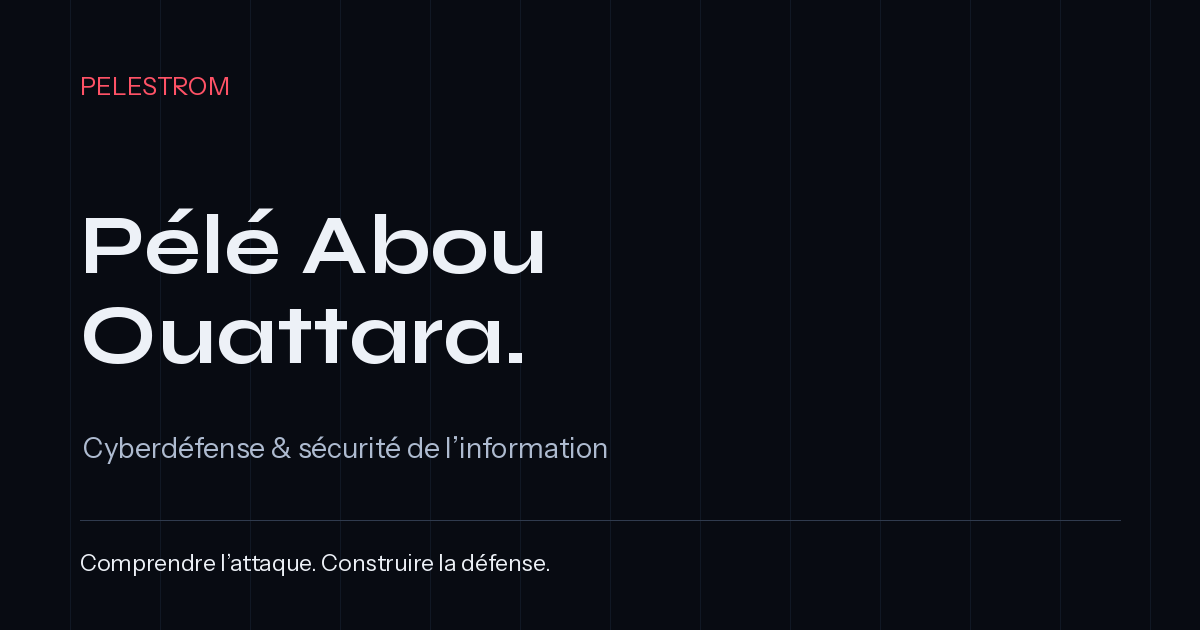
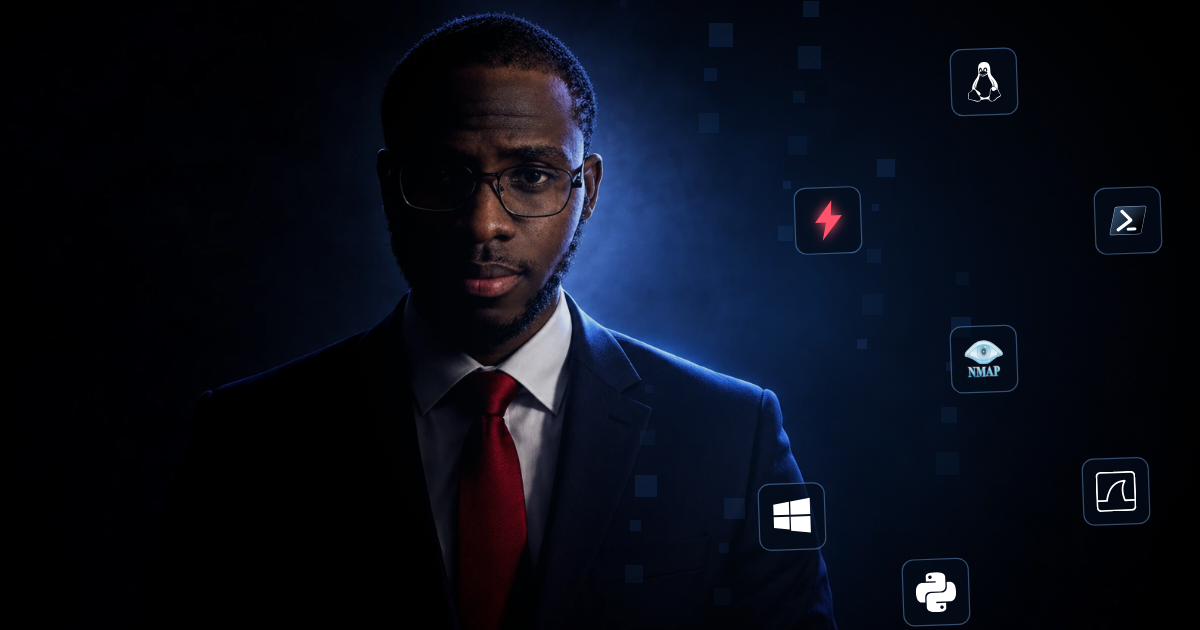
Update open graph

diff --git a/vite.config.ts b/vite.config.ts
@@ -6,6 +6,6 @@ const siteUrl=config.siteUrl as string|null;
 const canonical=siteUrl?new URL(siteUrl.endsWith('/')?siteUrl:siteUrl+'/').href:null;
 export default defineConfig({plugins:[react(),{
  name:'portfolio-seo',
- transformIndexHtml(html){html=html.replace(/<meta property="og:image"[^>]*>/,'');const tags=[{tag:'meta',attrs:{name:'twitter:card',content:'summary_large_image'}},{tag:'meta',attrs:{property:'og:locale',content:'fr_FR'}}];if(canonical)tags.push({tag:'meta',attrs:{property:'og:url',content:canonical}},{tag:'meta',attrs:{property:'og:image',content:new URL('social-card.png',canonical).href}});return {html,tags:[...tags,...(canonical?[{tag:'link',attrs:{rel:'canonical',href:canonical}}]:[])]};},
+ transformIndexHtml(html){html=html.replace(/<meta property="og:image"[^>]*>/,'');const tags=[{tag:'meta',attrs:{name:'twitter:card',content:'summary_large_image'}},{tag:'meta',attrs:{property:'og:locale',content:'fr_FR'}}];if(canonical)tags.push({tag:'meta',attrs:{property:'og:url',content:canonical}},{tag:'meta',attrs:{property:'og:image',content:new URL('social-card.png',canonical).href}},{tag:'meta',attrs:{property:'og:image:width',content:'1200'}},{tag:'meta',attrs:{property:'og:image:height',content:'630'}},{tag:'meta',attrs:{property:'og:image:type',content:'image/png'}},{tag:'meta',attrs:{name:'twitter:image',content:new URL('social-card.png',canonical).href}});return {html,tags:[...tags,...(canonical?[{tag:'link',attrs:{rel:'canonical',href:canonical}}]:[])]};},
  generateBundle(){this.emitFile({type:'asset',fileName:'robots.txt',source:'User-agent: *\nAllow: /\n'+(canonical?'Sitemap: '+new URL('sitemap.xml',canonical).href+'\n':'')});if(canonical)this.emitFile({type:'asset',fileName:'sitemap.xml',source:'<?xml version="1.0" encoding="UTF-8"?><urlset xmlns="http://www.sitemaps.org/schemas/sitemap/0.9"><url><loc>'+canonical.replaceAll('&','&amp;')+'</loc></url></urlset>'});}
 }],base:'./',build:{target:'es2022'}});

diff --git a/index.html b/index.html
@@ -6,6 +6,6 @@
 <title>Pelestrom — Pélé Abou Ouattara | Cybersécurité</title>
 <meta name="description" content="Portfolio de Pélé Abou Ouattara, étudiant en cyberdéfense et sécurité de l’information. Projets en forensic, détection et gestion des vulnérabilités."/>
 <meta property="og:type" content="website"/><meta property="og:title" content="Pelestrom — Cyberdéfense & Digital Forensics"/><meta property="og:description" content="Comprendre l’attaque. Construire la défense. Découvrez les projets de Pélé Abou Ouattara."/>
-<meta property="og:image" content="./social-card.png"/><!-- Set site.config.json.siteUrl before deployment to generate canonical and absolute social metadata. -->
+<!-- The build plugin adds absolute canonical and social image URLs from site.config.json. -->
 <link rel="icon" type="image/svg+xml" href="./favicon.svg?v=4"/>
 </head><body><div id="root"></div><script type="module" src="/src/main.tsx"></script></body></html>
